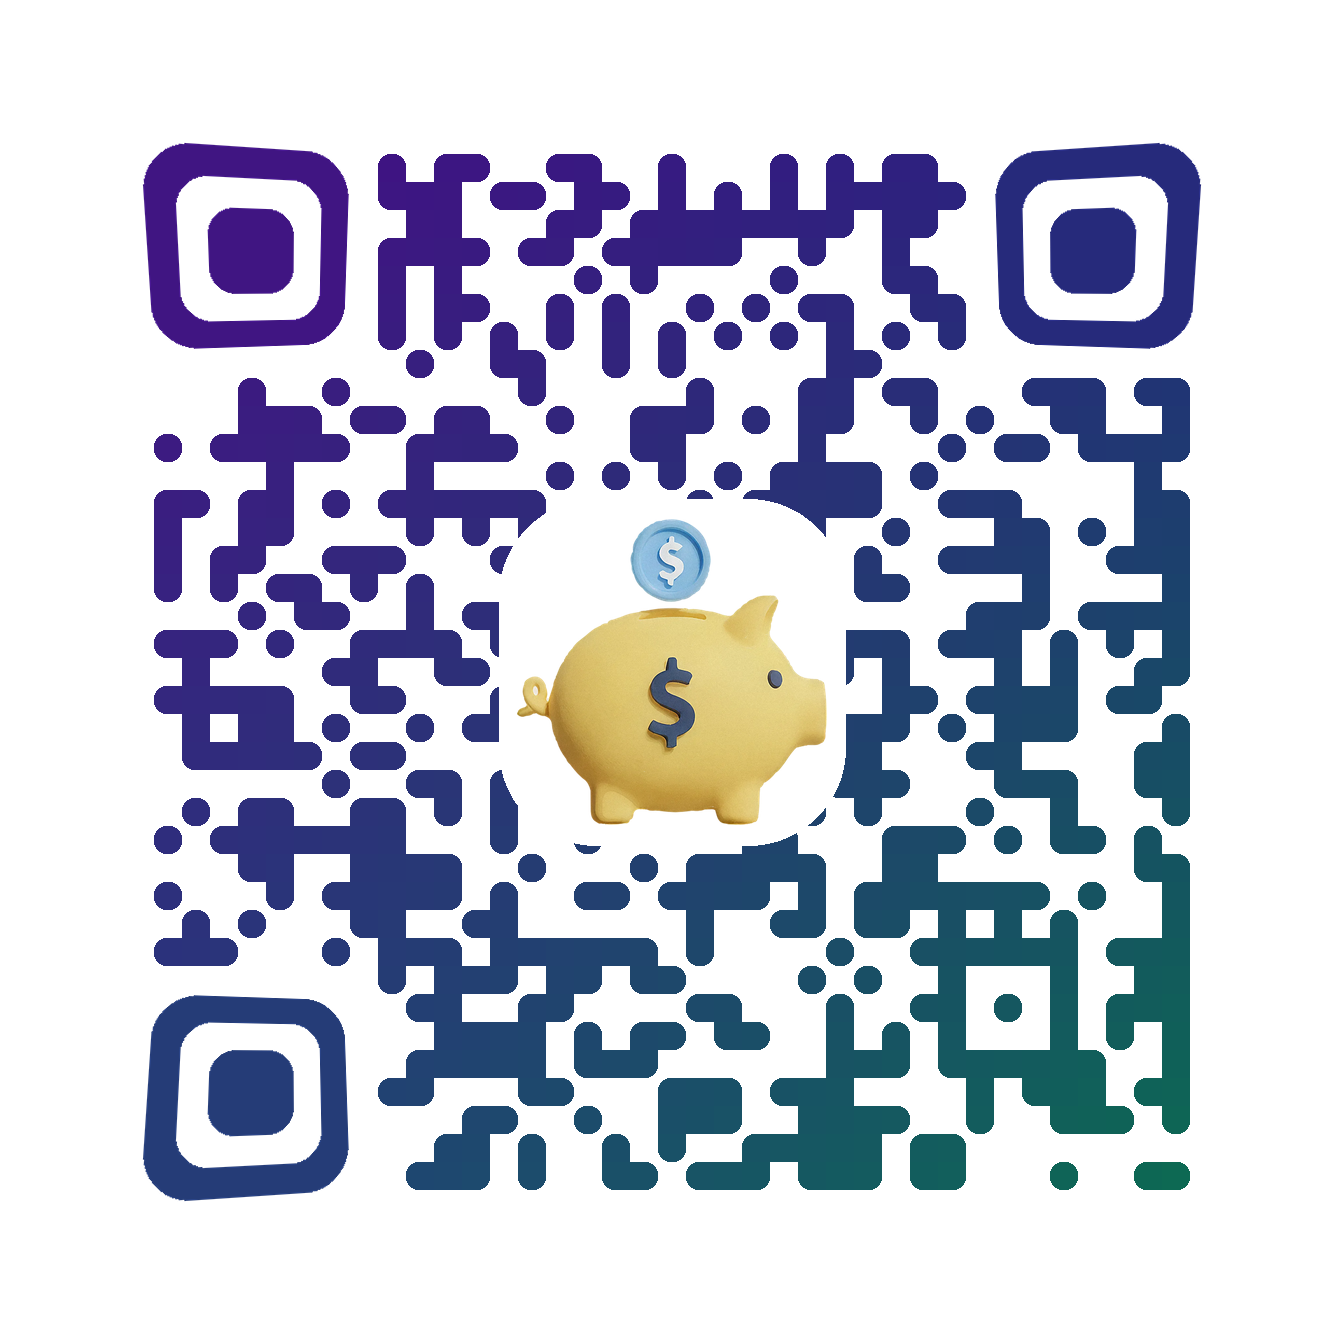
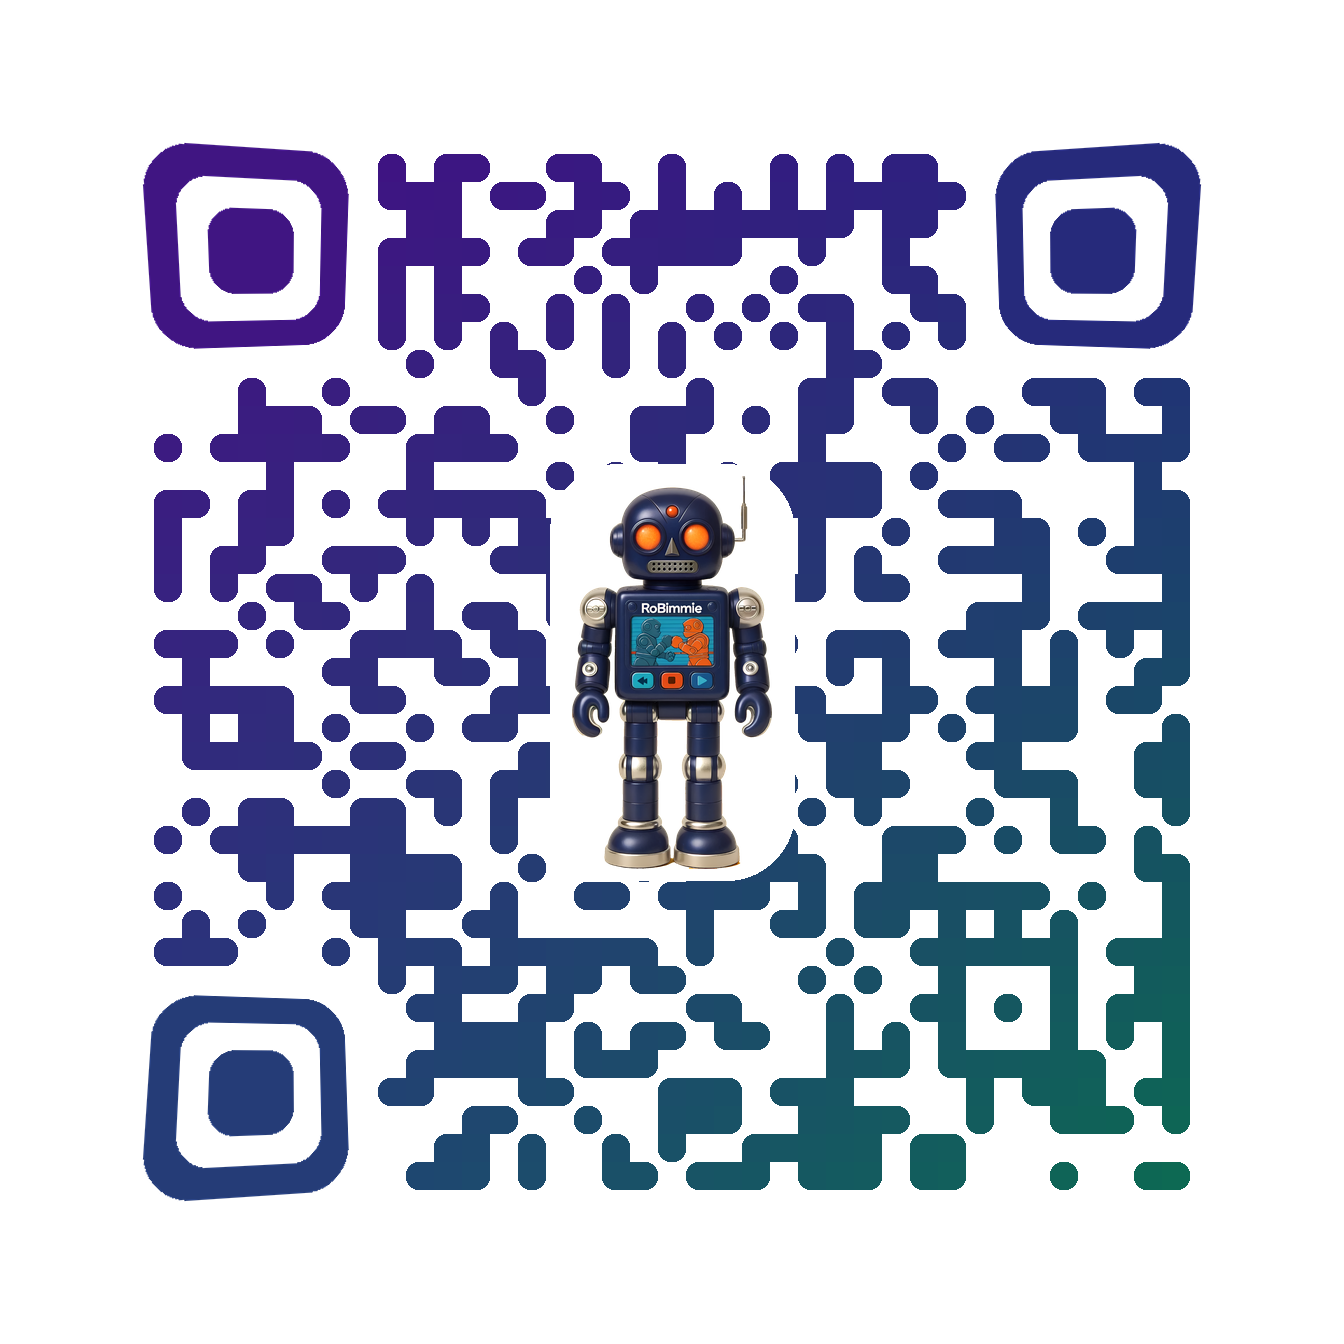
Swap piggy bank for RoBimmie in QR center
Piggy bank says saving; the book sells smart spending. RoBimmie is
the bargain Clarence actually buys, so he takes the center spot.
Cutout extracted from forsite/robimmie-yellow.png (flood fill plus
hue key), saved as images/robimmie-cutout.png. Knockout plate now
adapts to the art's aspect ratio. All six styles decode 12/12 under
blur, tilt, glare, and 150px stress tests.

Claude-Session: https://claude.ai/code/session_011P3ggmPFRxPjArGTbVbY72

Changed region(s): [[0.375, 0.3438, 0.6562, 0.6562]]

diff --git a/generate_qr_options.py b/generate_qr_options.py
@@ -2,8 +2,8 @@
 
 All six share the fixes that make the code easier to capture than v1:
 - darker purple-to-teal gradient (more contrast against white)
-- piggy bank shrunk from 45% to 30% of code width, sitting on a clean
-  white knockout instead of a purple halo washing over live modules
+- RoBimmie (the bargain itself) in the center on a clean white knockout —
+  replaces the off-brand piggy bank, sized well under the ECC recovery limit
 - white rounded card behind everything so the code pops on fabric
 - error correction H, version 3 (29x29 — big fat modules)
 
@@ -25,7 +25,9 @@ from qrcode.constants import ERROR_CORRECT_H
 from PIL import Image, ImageDraw, ImageFont
 
 ROOT = Path(__file__).resolve().parent
-PIGGY_SRC = ROOT / "images" / "piggy-bank.png"
+# Center art: RoBimmie, the robot Clarence actually bargains for. The v1
+# piggy bank read as a savings brand — CGB is a smart-spending brand.
+CENTER_SRC = ROOT / "images" / "robimmie-cutout.png"
 OUT_DIR = ROOT / "images" / "qr-options"
 URL = "https://www.clarencegetsabargain.com"
 
@@ -41,8 +43,10 @@ CARD_MARGIN = 1.5        # extra white card margin beyond quiet zone (modules)
 FINDER_SIZE = 7
 BAR_RATIO = 0.78         # bar/dot thickness as fraction of a module
 
-BANK_RATIO = 0.30        # bank width vs QR code width (was 0.45 — too big)
-KNOCKOUT_RATIO = 1.12    # white plate slightly larger than the bank
+ART_RATIO = 0.38         # center art max dimension vs QR code width
+                         # (v1 piggy bank was 0.45 wide — too big to recover)
+PLATE_PAD_W = 1.22       # white plate padding around the art
+PLATE_PAD_H = 1.06
 
 STYLES = [
     ("vertical-bars", "Vertical Bars"),
@@ -316,20 +320,21 @@ def render_option(matrix, style: str) -> Image.Image:
         draw_finder(canvas, (offset + cm * MODULE_PX, offset + rm * MODULE_PX),
                     color, which, lean=FINDER_LEAN)
 
-    # White knockout plate + bank (30% of code width — scan-safe under ECC H)
+    # White knockout plate + center art. Plate area stays around 10% of the
+    # code — well inside ECC H's 30% recovery budget.
     cx = cy = total // 2
-    bank_w = int(qr_px * BANK_RATIO)
-    plate = int(bank_w * KNOCKOUT_RATIO)
+    art = Image.open(CENTER_SRC).convert("RGBA")
+    scale = (qr_px * ART_RATIO) / max(art.size)
+    art = art.resize((int(art.width * scale), int(art.height * scale)),
+                     Image.LANCZOS)
+    pw = int(art.width * PLATE_PAD_W)
+    ph = int(art.height * PLATE_PAD_H)
     d2 = ImageDraw.Draw(canvas, "RGBA")
-    d2.rounded_rectangle([cx - plate // 2, cy - plate // 2,
-                          cx + plate // 2, cy + plate // 2],
-                         radius=int(plate * 0.28), fill=(255, 255, 255, 255))
-
-    bank = Image.open(PIGGY_SRC).convert("RGBA")
-    scale = bank_w / bank.width
-    bank = bank.resize((bank_w, int(bank.height * scale)), Image.LANCZOS)
-    canvas.alpha_composite(bank, dest=(cx - bank.width // 2,
-                                       cy - bank.height // 2))
+    d2.rounded_rectangle([cx - pw // 2, cy - ph // 2, cx + pw // 2, cy + ph // 2],
+                         radius=int(min(pw, ph) * 0.28),
+                         fill=(255, 255, 255, 255))
+    canvas.alpha_composite(art, dest=(cx - art.width // 2,
+                                      cy - art.height // 2))
 
     # White rounded card behind everything (shows on colored fabric)
     margin = int(CARD_MARGIN * MODULE_PX)
